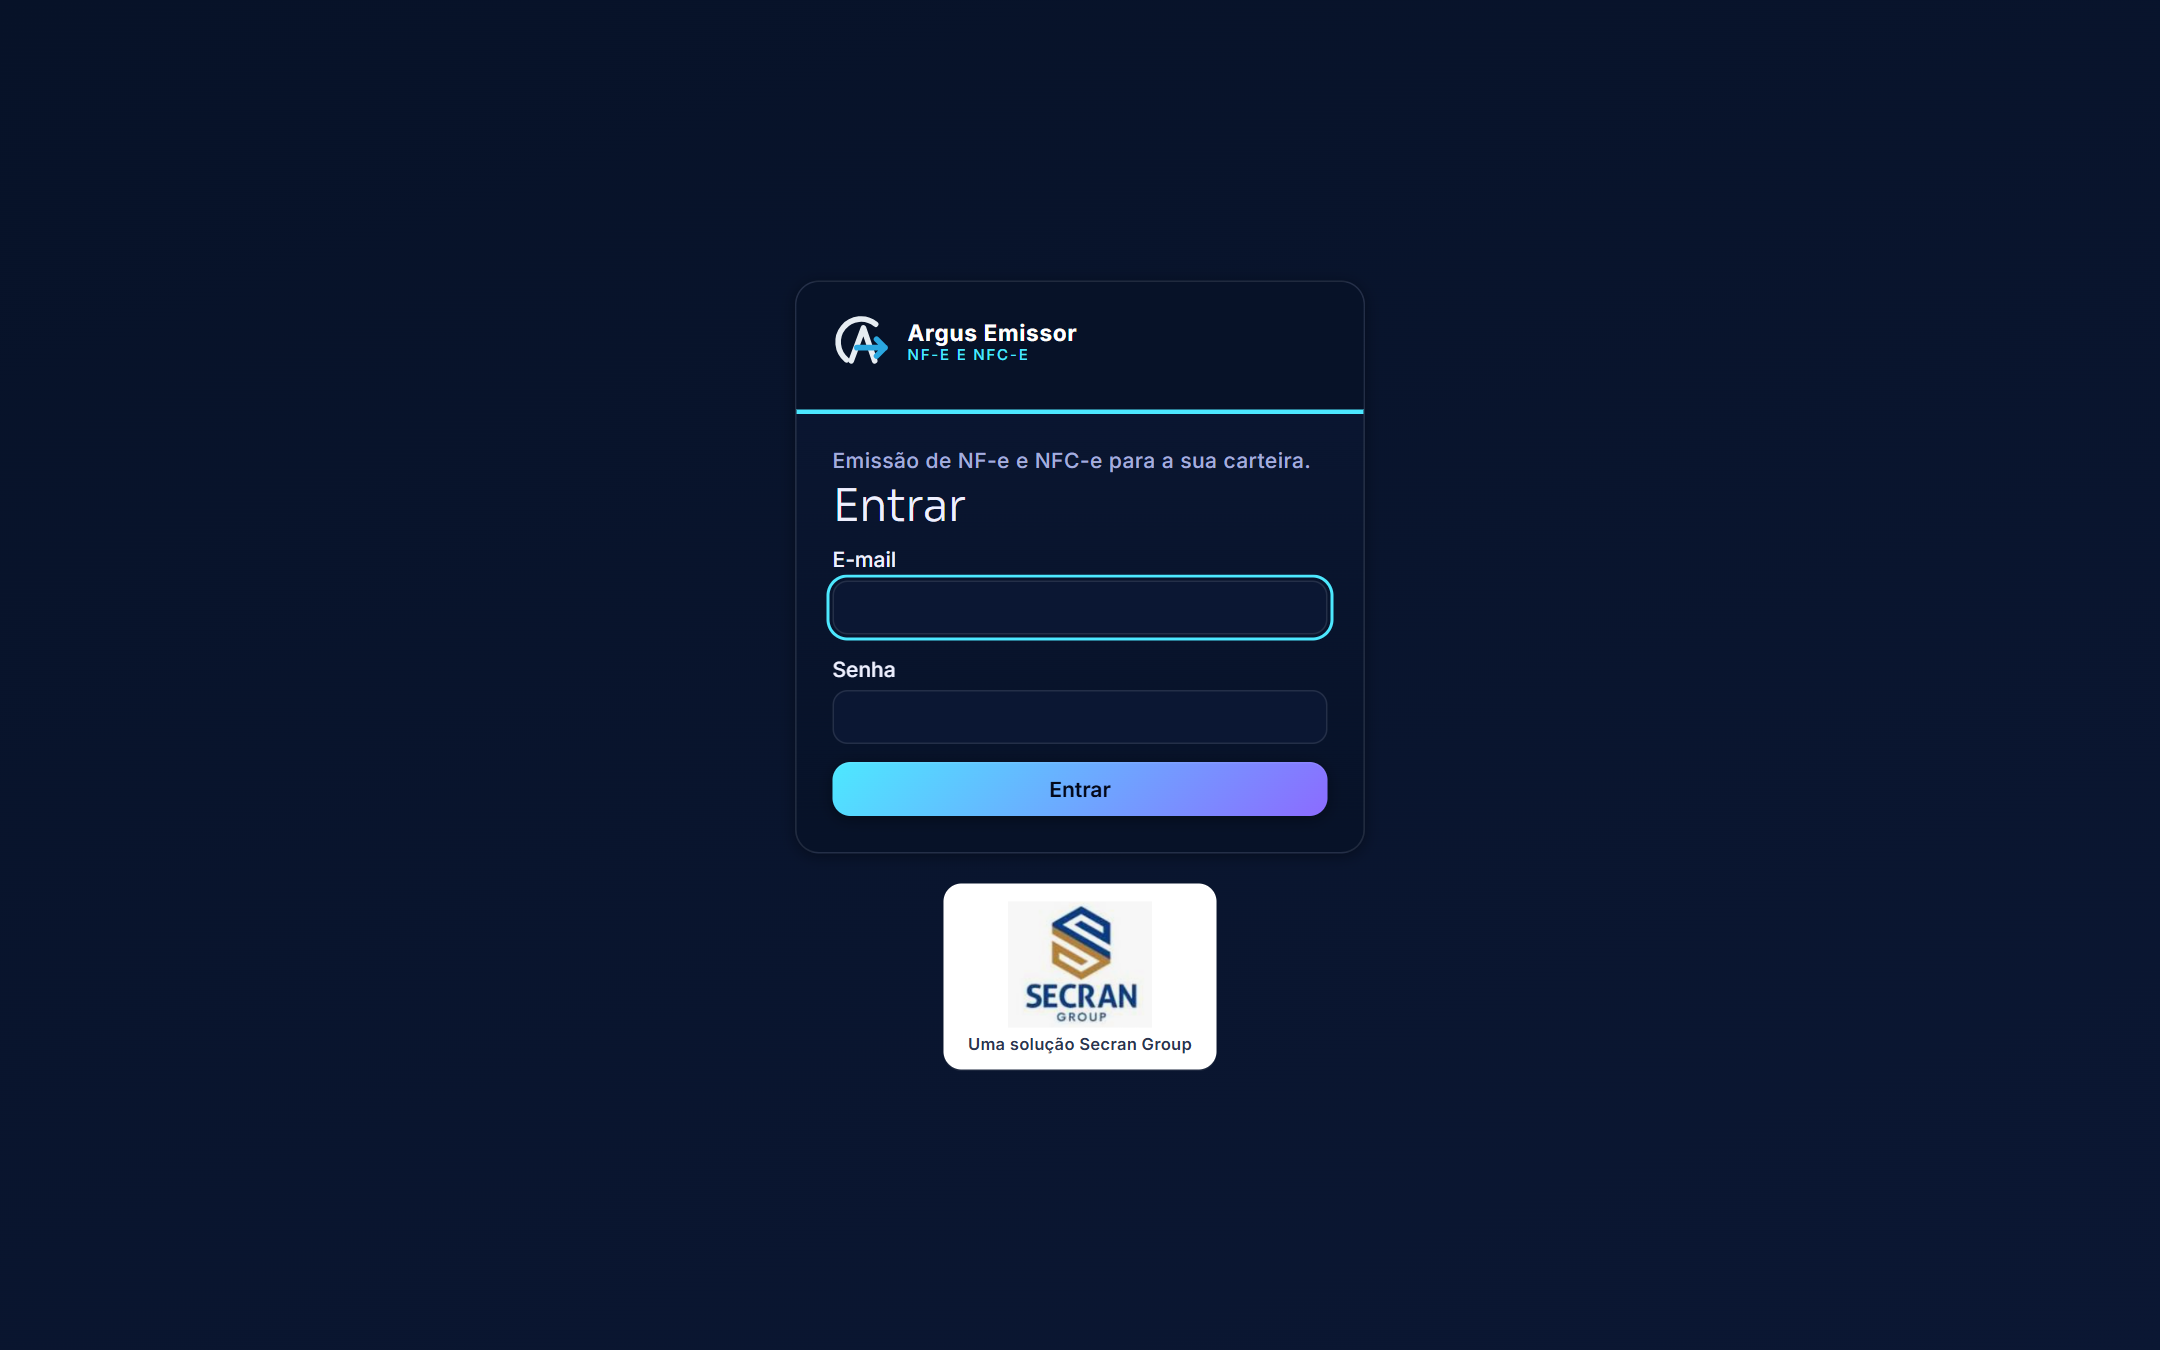
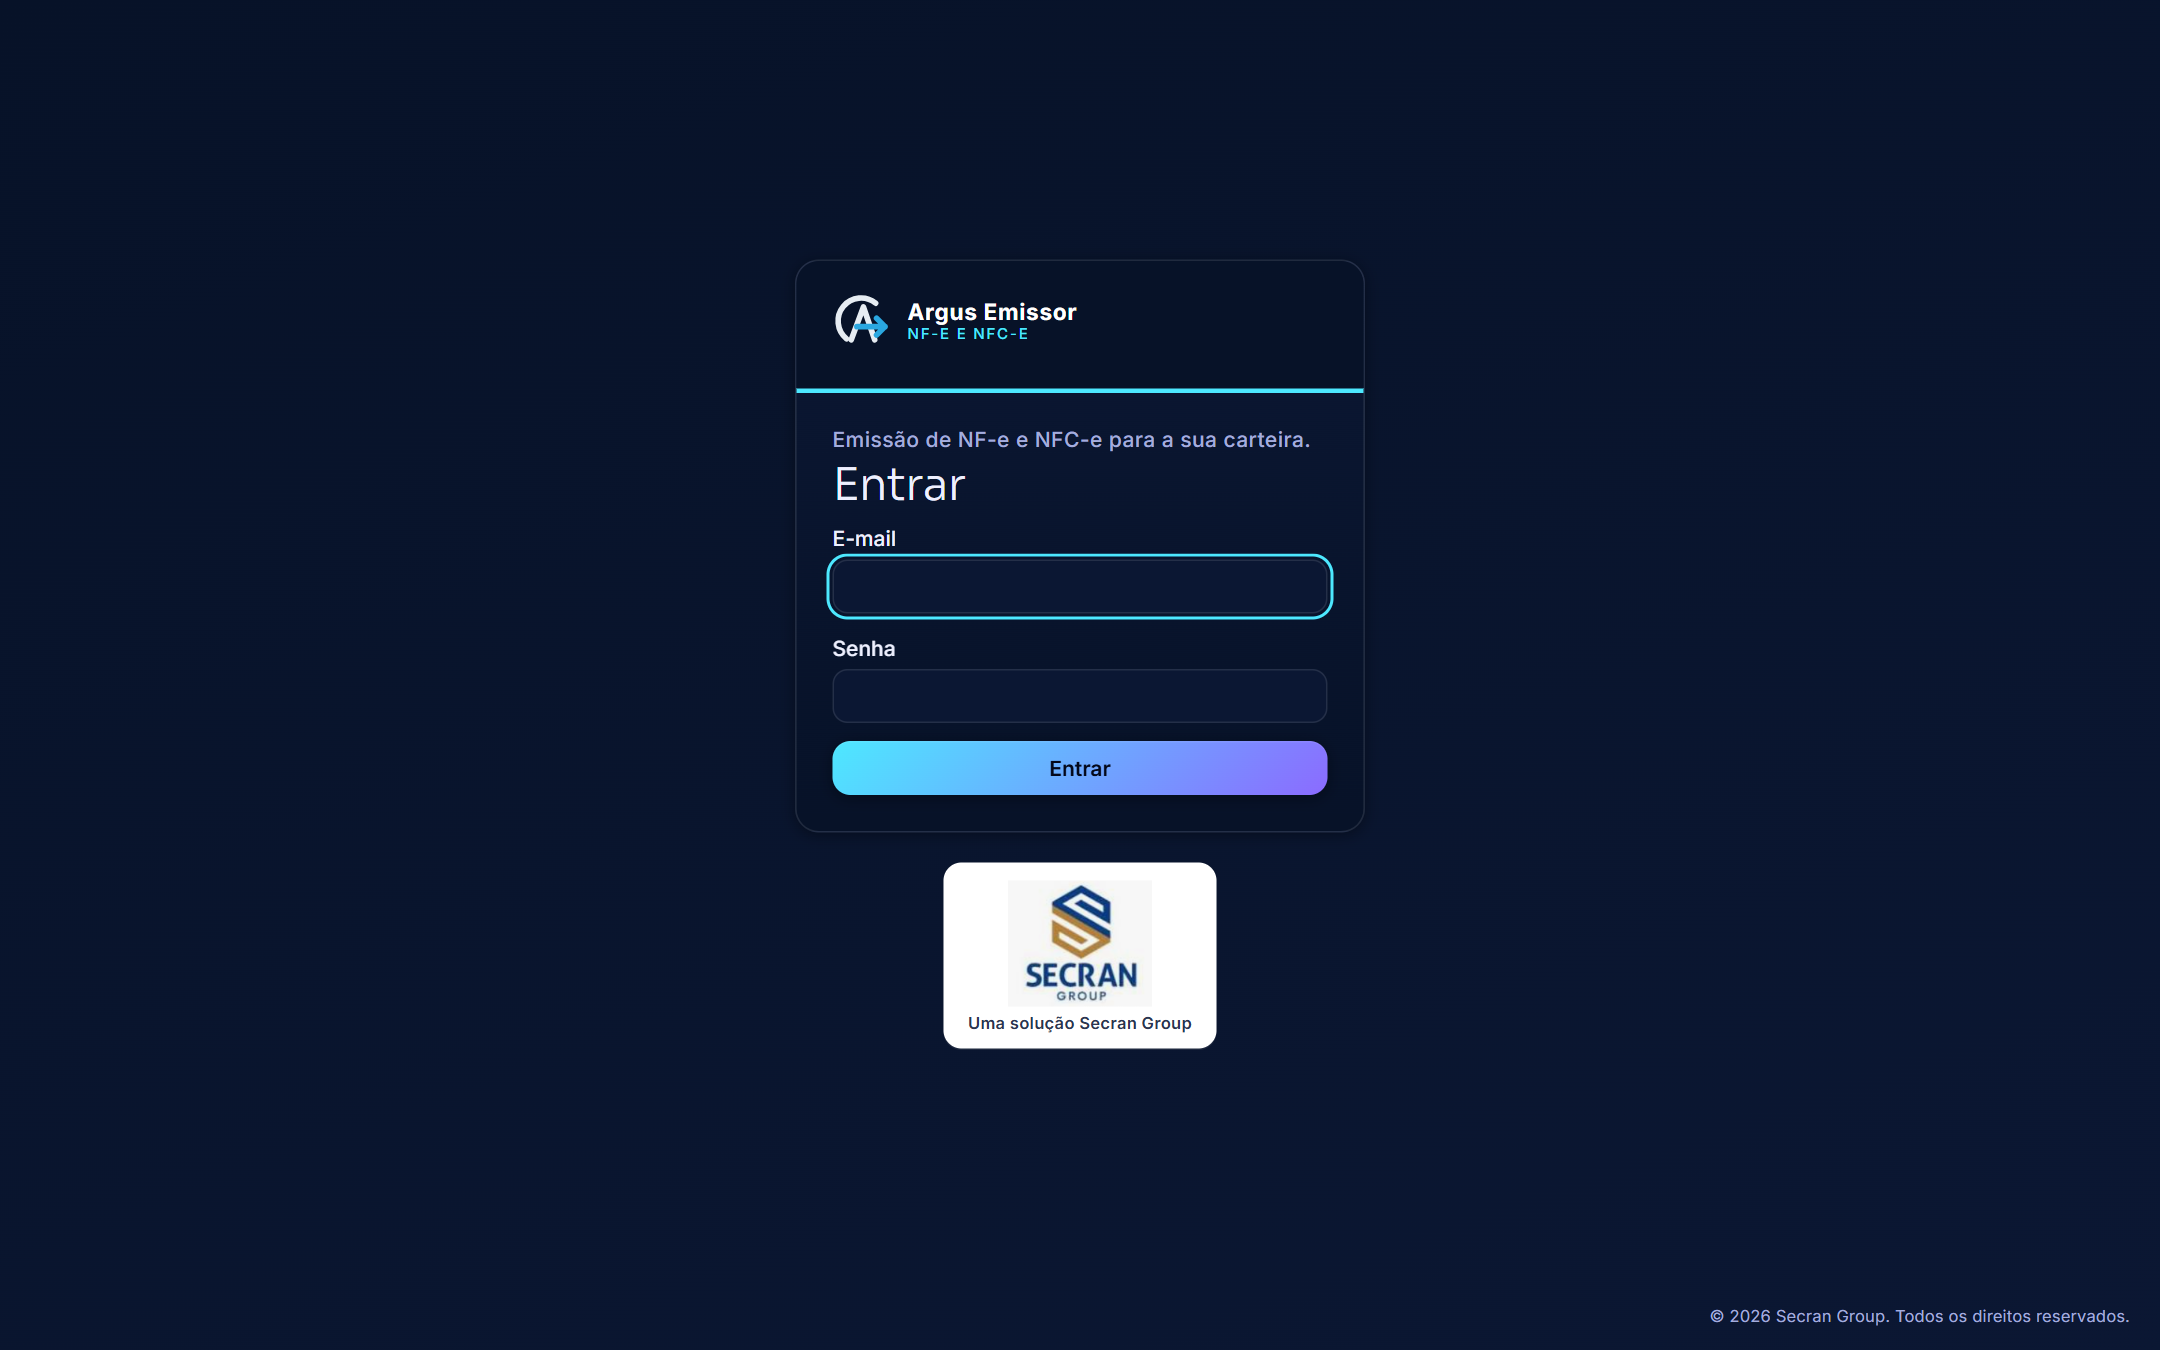
Rodapé de direitos da Secran Group no sistema e no login

Changed region(s): [[0.3722, 0.2178, 0.6204, 0.4978], [0.3722, 0.5289, 0.6204, 0.8089], [0.8065, 0.9644, 0.9926, 0.9956]]

diff --git a/web/src/emissor.css b/web/src/emissor.css
@@ -119,3 +119,10 @@
 .celula-leitura { color: var(--texto-2); white-space: nowrap; }
 .informativo dt, .informativo dd { color: var(--texto-2); }
 .catalogo-nfse { margin-top: 12px; }
+
+/* Rodapé de direitos: pequeno, discreto, no canto direito, colado ao fim da página. */
+.direitos { margin-top: auto; padding: 10px 20px 14px; text-align: right; }
+.direitos small { font-size: 11px; color: var(--texto-2); letter-spacing: .01em; }
+@media (max-width: 559.98px) { .direitos { padding: 8px 12px 12px; text-align: center; } }
+.tela-login { position: relative; padding-bottom: 44px; }
+.tela-login .direitos { position: absolute; right: 0; bottom: 0; padding: 10px 20px 14px; }

diff --git a/web/src/layout/Layout.tsx b/web/src/layout/Layout.tsx
@@ -7,6 +7,7 @@ import { Icone } from '../ui/Icone'
 import { Menu } from './Menu'
 import { Topo } from './Topo'
 import { useMedia } from './useMedia'
+import { Direitos } from './Direitos'
 
 const ID_MENU = 'menu-lateral'
 const CHAVE_MENU = 'argus-emissor.menu'
@@ -110,6 +111,7 @@ export function Layout() {
           <main id="conteudo" className="conteudo" tabIndex={-1}>
             <Outlet />
           </main>
+          <Direitos />
         </div>
       </div>
     </EmpresaProvider>

diff --git a/web/src/paginas/Login.tsx b/web/src/paginas/Login.tsx
@@ -4,6 +4,7 @@ import { useNavigate } from 'react-router-dom'
 import { api, json, mensagemErro } from '../api'
 import { Logo } from '../marca/Logo'
 import { MarcaSecran } from '../marca/Secran'
+import { Direitos } from '../layout/Direitos'
 import type { Eu } from '../tipos'
 
 export function Login() {
@@ -59,6 +60,7 @@ export function Login() {
         </form>
       </main>
       <footer className="login-rodape"><MarcaSecran /></footer>
+      <Direitos />
     </div>
   )
 }

diff --git a/web/src/layout/Direitos.tsx b/web/src/layout/Direitos.tsx
@@ -1,0 +1,6 @@
+/** Rodapé discreto de direitos, no canto direito (telas do sistema e de entrada). */
+export const TEXTO_DIREITOS = '© 2026 Secran Group. Todos os direitos reservados.'
+
+export function Direitos() {
+  return <footer className="direitos"><small>{TEXTO_DIREITOS}</small></footer>
+}
